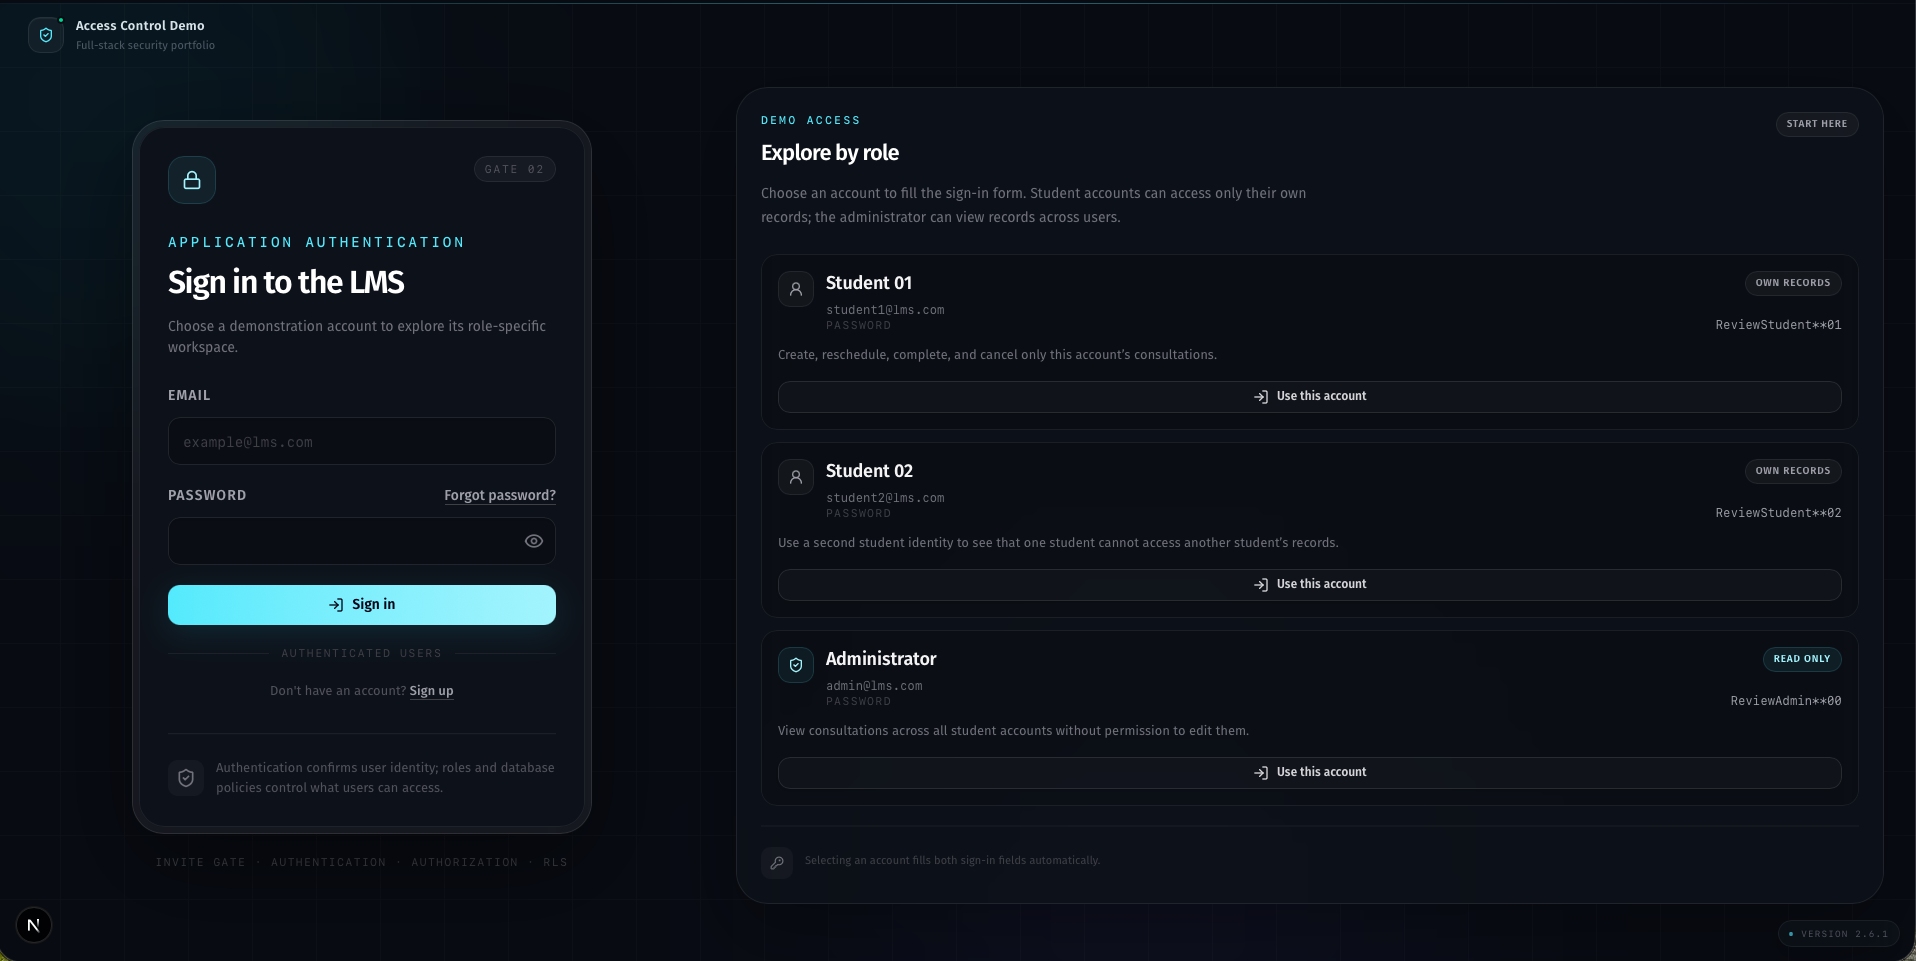
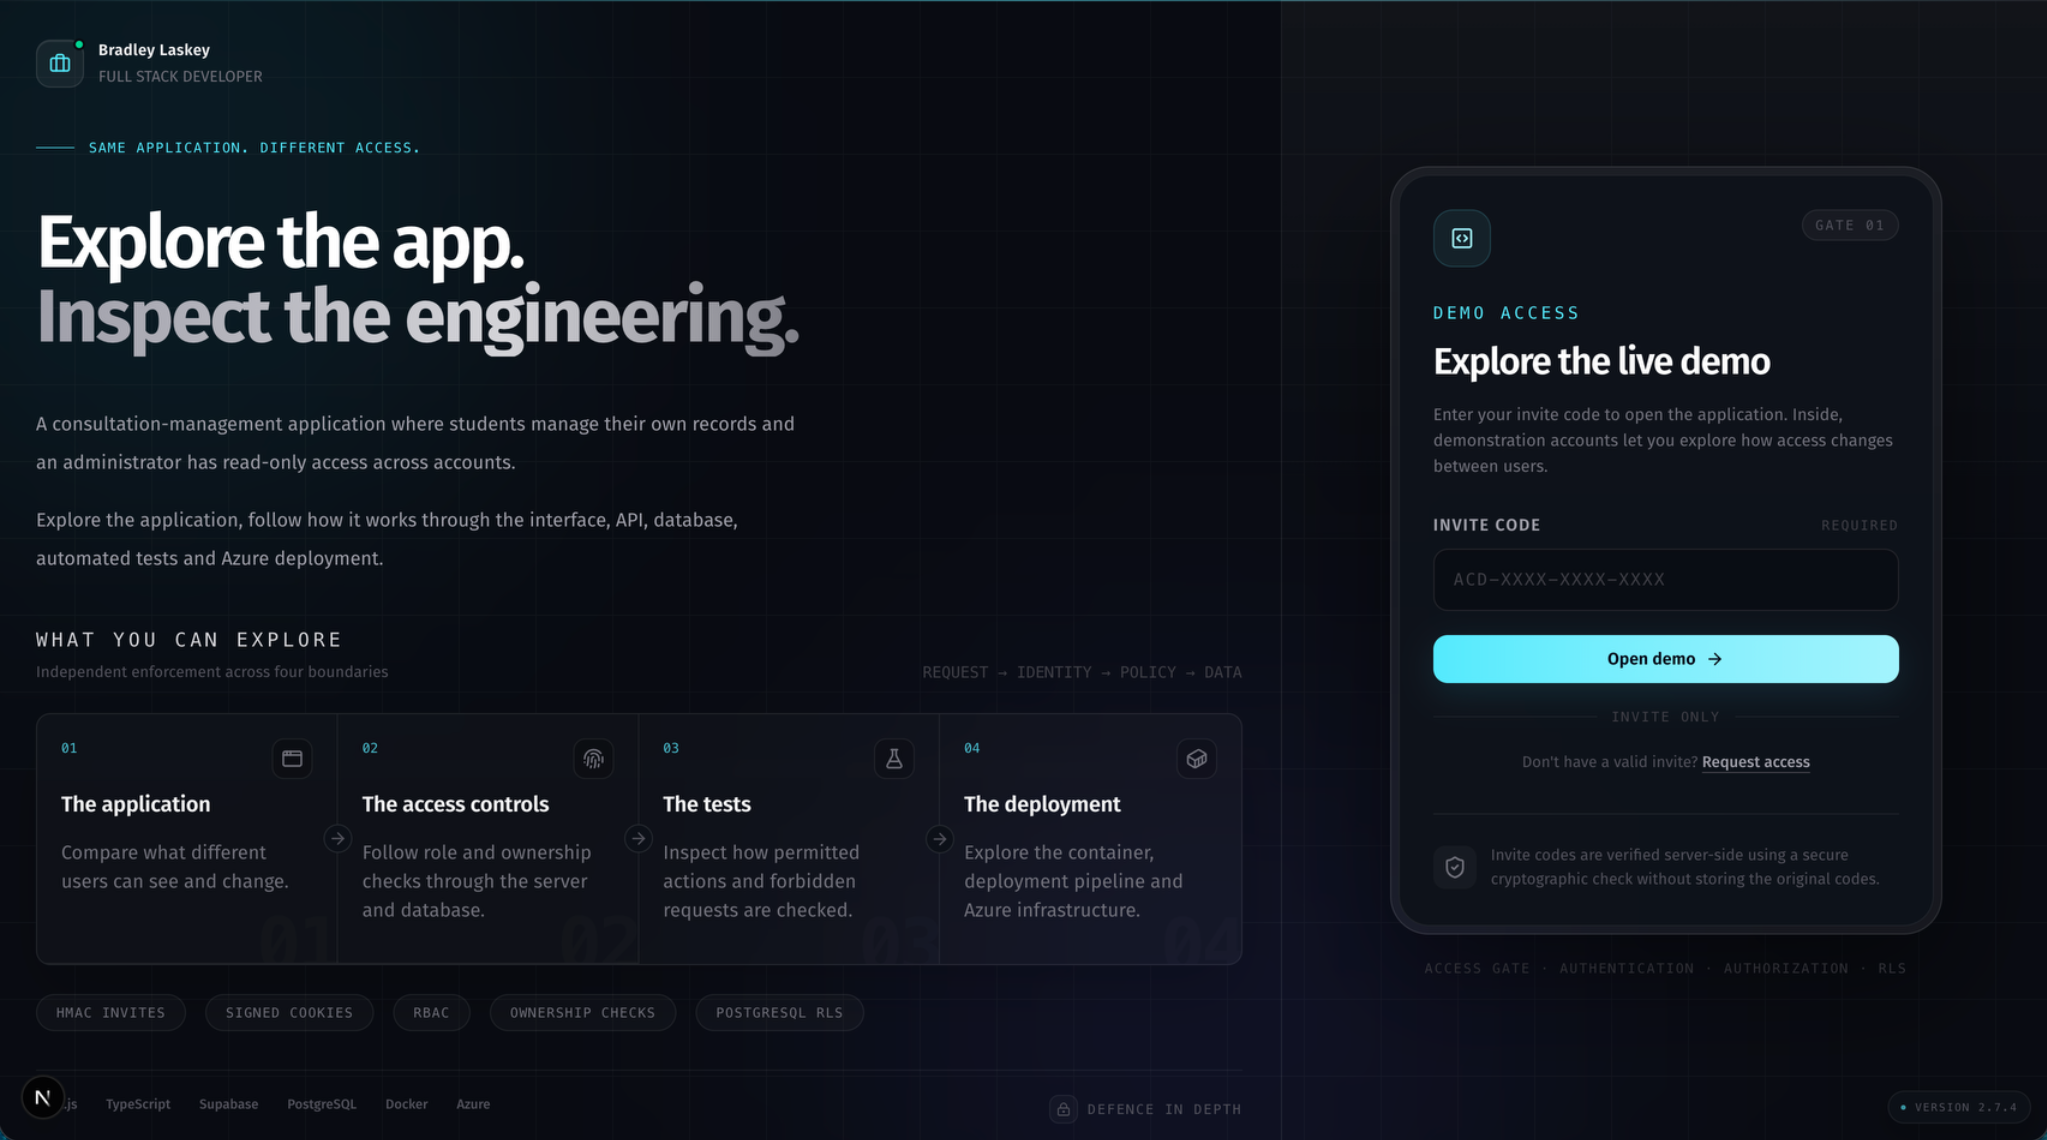
feat(landing): refresh landing page to clarify the demo purpose and reviewer experience (#80)

diff --git a/components/ui/access-gate/architecture-section.tsx b/components/ui/access-gate/architecture-section.tsx
@@ -1,36 +1,39 @@
 import { Typography } from '@/components/ui/typography';
 import {
   ArrowRight,
-  Database,
-  KeyRound,
-  ServerCog,
-  UserRoundCheck,
+  ContainerIcon,
+  AppWindowIcon,
+  FingerprintIcon,
+  FlaskConicalIcon,
 } from 'lucide-react';
 
 const securityLayers = [
   {
     number: '01',
-    icon: KeyRound,
-    title: 'Invite gate',
-    description: 'Controls access to the hosted portfolio environment.',
+    icon: AppWindowIcon,
+    title: 'The application',
+    description: 'Compare what different users can see and change.',
   },
   {
     number: '02',
-    icon: UserRoundCheck,
-    title: 'Authentication',
-    description: 'Supabase Auth establishes the signed-in application user.',
+    icon: FingerprintIcon,
+    title: 'The access controls',
+    description:
+      'Follow role and ownership checks through the server and database.',
   },
   {
     number: '03',
-    icon: ServerCog,
-    title: 'Authorization',
-    description: 'Server handlers enforce roles and resource ownership.',
+    icon: FlaskConicalIcon,
+    title: 'The tests',
+    description:
+      'Inspect how permitted actions and forbidden requests are checked.',
   },
   {
     number: '04',
-    icon: Database,
-    title: 'Database policy',
-    description: 'PostgreSQL RLS independently enforces data access.',
+    icon: ContainerIcon,
+    title: 'The deployment',
+    description:
+      'Explore the container, deployment pipeline and Azure infrastructure.',
   },
 ];
 
@@ -49,23 +52,15 @@ export const Architecture = () => (
         <Typography
           as="p"
           variant="body-large"
-          className="font-mono uppercase tracking-[0.2em] text-zinc-600"
+          className="font-mono uppercase tracking-[0.2em] text-zinc-300"
         >
-          Request lifecycle
+          What you can explore
         </Typography>
 
-        <Typography as="p" variant="body-small" className="mt-1 text-zinc-400">
+        <Typography as="p" variant="body-small" className="mt-1 text-zinc-600">
           Independent enforcement across four boundaries
         </Typography>
       </div>
-
-      <Typography
-        as="p"
-        variant="body-small"
-        className="hidden font-mono text-zinc-700 md:block"
-      >
-        REQUEST → IDENTITY → POLICY → DATA
-      </Typography>
     </div>
 
     <ol className="relative grid grid-cols-2 overflow-hidden rounded-xl border border-white/8 bg-white/2.5 shadow-2xl shadow-black/20 backdrop-blur-sm lg:grid-cols-4 lg:overflow-y-visible">

diff --git a/components/ui/access-gate/hero-section.tsx b/components/ui/access-gate/hero-section.tsx
@@ -6,38 +6,42 @@ export const HeroSection = () => (
       <span className="h-px w-8 bg-cyan-300/70" />
 
       <Typography
-        as="p"
-        variant="body-small"
-        className="font-mono font-medium uppercase tracking-[0.22em] text-cyan-300"
+        variant="eyebrow"
+        className="font-mono font-medium uppercase tracking-widest  text-cyan-300"
       >
-        Application security architecture
+        Same application. Different access.
       </Typography>
     </div>
 
     <Typography
       id="main-heading"
-      as="h1"
       variant="display"
       className="max-w-195 font-semibold leading-[0.96] tracking-[-0.055em] text-white"
     >
-      Security should hold at&nbsp;
+      Explore the app.&nbsp;
       <Typography
-        as="span"
+        as="p"
         variant="display"
         className="block bg-linear-to-r from-zinc-400 via-zinc-300 to-zinc-600 bg-clip-text text-transparent"
       >
-        every boundary.
+        Inspect the engineering.
       </Typography>
     </Typography>
 
     <Typography
-      as="p"
-      variant="section-title"
-      className="mt-12 mb-6 max-w-160 font-light leading-8 text-zinc-400"
+      variant="body-large"
+      className="mt-8 lg:mt-10 mb-4 max-w-160 font-light leading-8 text-zinc-400"
     >
-      A deliberately small learning-management application built to demonstrate
-      layered authentication, authorization, resource ownership, and
-      database-level access control.
+      A consultation-management application where students manage their own
+      records and an administrator has read-only access across accounts.
+    </Typography>
+
+    <Typography
+      variant="body-large"
+      className="hidden md:flex max-w-160 font-light leading-8 mb-8 text-zinc-400"
+    >
+      Explore the application, follow how it works through the interface, API,
+      database, automated tests and Azure deployment.
     </Typography>
   </div>
 );

diff --git a/components/ui/access-gate/header.tsx b/components/ui/access-gate/header.tsx
@@ -1,11 +1,11 @@
 import { Typography } from '@/components/ui/typography';
-import { ShieldCheck } from 'lucide-react';
+import { BriefcaseIcon } from 'lucide-react';
 
 export const Header = () => (
   <header id="header" className="flex items-center justify-between">
     <div className="flex items-center gap-3">
       <div className="relative flex size-10 items-center justify-center rounded-xl border border-white/10 bg-white/5 shadow-[inset_0_1px_0_rgba(255,255,255,0.08)]">
-        <ShieldCheck className="size-4.5 text-cyan-300" aria-hidden="true" />
+        <BriefcaseIcon className="size-4.5 text-cyan-300" aria-hidden="true" />
 
         <span className="absolute -right-0.5 -top-0.5 size-2.5 rounded-full border-2 border-[#080b12] bg-emerald-400" />
       </div>
@@ -16,26 +16,16 @@ export const Header = () => (
           variant="body-small"
           className="font-semibold tracking-wide text-zinc-100"
         >
-          Access Control Demo
+          Bradley Laskey
         </Typography>
         <Typography
           as="p"
           variant="body-small"
           className="mt-0.5 text-zinc-500"
         >
-          Full-stack security portfolio
+          FULL STACK DEVELOPER
         </Typography>
       </div>
-    </div>
-    <div className="hidden items-center gap-3 rounded-full border border-emerald-400/15 bg-emerald-400/6 px-6 py-2 sm:flex">
-      <span className="size-1.5 rounded-full bg-emerald-400 shadow-[0_0_10px_rgba(74,222,128,0.9)]" />
-      <Typography
-        as="span"
-        variant="caption"
-        className="font-mono uppercase tracking-[0.14em] text-emerald-300"
-      >
-        Demo online
-      </Typography>
     </div>
   </header>
 );

diff --git a/components/ui/access-gate/access-panel.tsx b/components/ui/access-gate/access-panel.tsx
@@ -1,5 +1,5 @@
 import { Suspense } from 'react';
-import { KeyRound } from 'lucide-react';
+import { CodeSquareIcon } from 'lucide-react';
 import { AccessGateForm } from '@/components/ui/forms/access-gate-form';
 import { getSafeAccessGateDestination } from '@/lib/access-gate/paths';
 import type { AccessPageSearchParams } from '@/app/page';
@@ -23,15 +23,16 @@ const AccessPageContent = async ({
 
 export const AccessGate = ({ searchParams }: Props) => (
   <AuthPanel
-    icon={<KeyRound className="size-5 text-cyan-200" aria-hidden="true" />}
+    icon={
+      <CodeSquareIcon className="size-5 text-cyan-200" aria-hidden="true" />
+    }
     badge="Gate 01"
-    eyebrow="Private demo access"
-    title="Enter the application"
+    eyebrow="Demo access"
+    title="Explore the live demo"
     description={
       <>
-        Use the invite code supplied with the portfolio link. This gate only
-        opens the hosted demo; authentication and application roles remain
-        separate.
+        Enter your invite code to open the application. Inside, demonstration
+        accounts let you explore how access changes between users.
       </>
     }
     footer={

diff --git a/components/ui/typography.tsx b/components/ui/typography.tsx
@@ -15,6 +15,7 @@ type Variant =
   | 'body-small'
   | 'label'
   | 'action'
+  | 'eyebrow'
   | 'caption';
 
 type TypographyOwnProps<T extends ElementType> = {
@@ -39,6 +40,7 @@ const variantStyles: Record<Variant, string> = {
   'body-small': 'text-body-small',
   label: 'text-label',
   action: 'text-action',
+  eyebrow: 'text-eyebrow',
   caption: 'text-caption',
 };
 
@@ -52,6 +54,7 @@ const defaultTag: Record<Variant, ElementType> = {
   'body-small': 'p',
   label: 'span',
   action: 'span',
+  eyebrow: 'span',
   caption: 'span',
 };
 

diff --git a/components/ui/forms/access-gate-form.tsx b/components/ui/forms/access-gate-form.tsx
@@ -122,7 +122,7 @@ export function AccessGateForm({
           'active:translate-y-px',
         )}
       >
-        Unlock demo
+        Open demo
         <ArrowRight
           className="size-4 transition-transform duration-200 group-hover:translate-x-0.5"
           aria-hidden="true"
